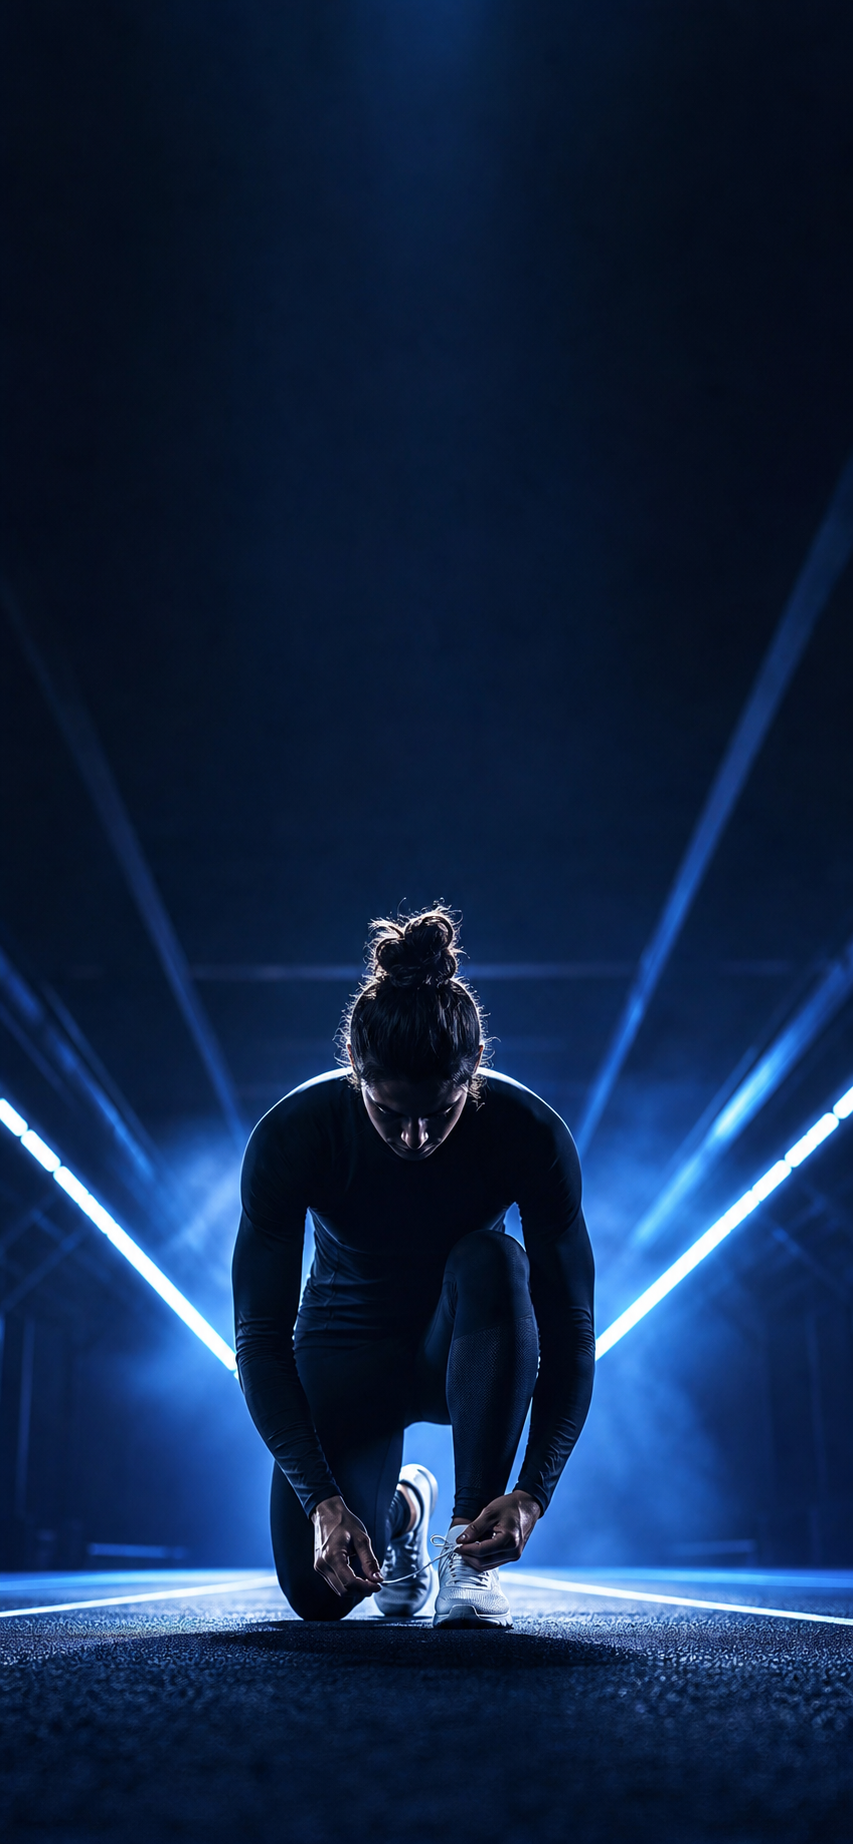
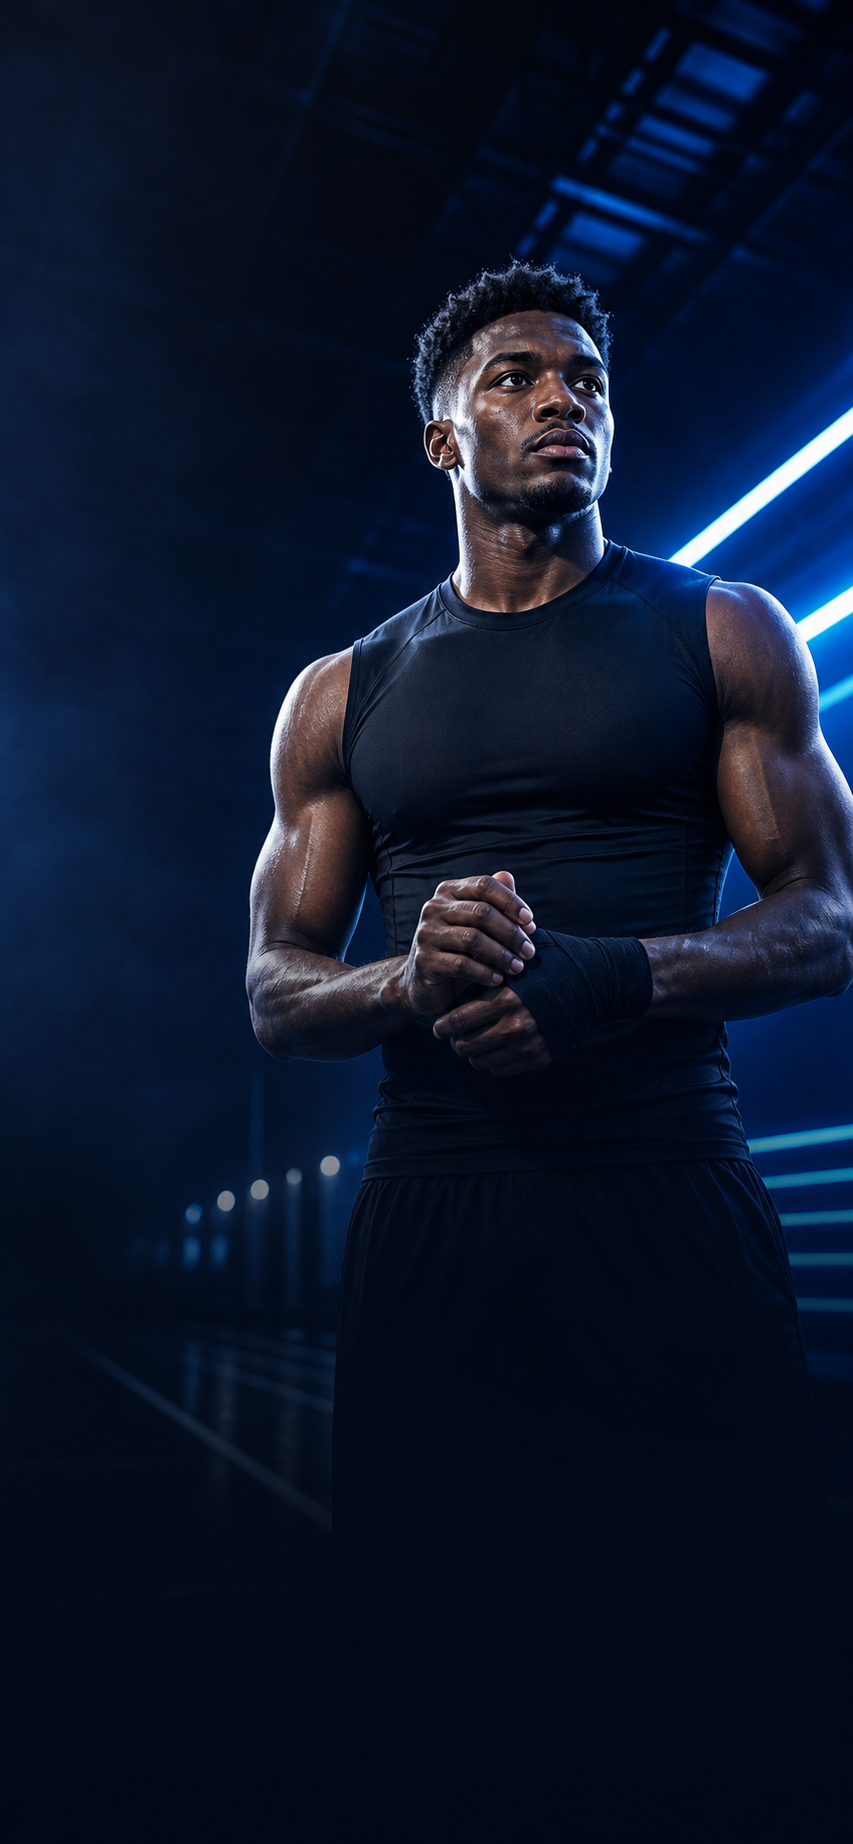
Update onboarding hero athlete crop

diff --git a/src/styles.css b/src/styles.css
@@ -100,7 +100,7 @@ input:disabled {
 .auth-photo-panel {
   background:
     linear-gradient(180deg, rgba(8, 17, 31, 0.44) 0%, rgba(5, 7, 11, 0.74) 52%, rgba(5, 7, 11, 0.92) 100%),
-    url("/assets/onboarding-athlete-hero.png") center 42% / cover no-repeat;
+    url("/assets/onboarding-athlete-hero.png") center 28% / cover no-repeat;
 }
 
 .auth-photo-panel::after {
@@ -6379,14 +6379,14 @@ select {
   width: auto;
   max-width: none;
   margin: 0;
-  min-height: min(43svh, 350px);
+  min-height: min(40svh, 330px);
   align-content: end;
   padding: max(58px, calc(env(safe-area-inset-top) + 18px)) 18px 22px;
   border: 0;
   border-radius: 22px;
   background:
     linear-gradient(180deg, rgba(8, 17, 31, 0.18) 0%, rgba(5, 7, 11, 0.52) 48%, rgba(5, 7, 11, 0.94) 100%),
-    url("/assets/onboarding-athlete-hero.png") center 40% / cover no-repeat;
+    url("/assets/onboarding-athlete-hero.png") center 24% / cover no-repeat;
   box-shadow: none;
 }
 
@@ -6503,14 +6503,14 @@ select {
 
 .native-shell .auth-login-shell .auth-brand-panel {
   margin: 0;
-  min-height: min(38svh, 310px);
+  min-height: min(36svh, 300px);
   align-content: end;
   padding: max(54px, calc(env(safe-area-inset-top) + 16px)) 18px 18px;
   border: 0;
   border-radius: 20px;
   background:
     linear-gradient(180deg, rgba(8, 17, 31, 0.16) 0%, rgba(5, 7, 11, 0.58) 48%, rgba(5, 7, 11, 0.94) 100%),
-    url("/assets/onboarding-athlete-hero.png") center 38% / cover no-repeat;
+    url("/assets/onboarding-athlete-hero.png") center 22% / cover no-repeat;
   box-shadow: none;
 }
 
